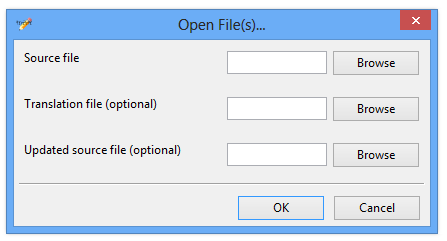
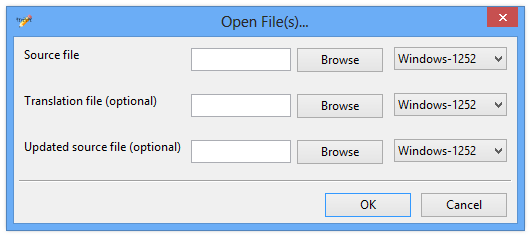
Image, readme, version number updates.

Changed region(s): [[0.0, 0.0, 0.9888, 0.9788]]

diff --git a/StrEdit Readme.html b/StrEdit Readme.html
@@ -50,6 +50,11 @@
     <li><b>Source and Translation files.</b> The original strings are obtained from the source file, and the translated strings are obtained from the translation file. The strings are matched up using their IDs, so this option should only be used when updating a translation file using the same version of the source file as was used to create it.
     <li><b>Source, Translation and Updated Source files.</b> The original strings and string IDs are obtained from the updated source file, and the translated strings are obtained from the translation file. The strings are first matched between the source and translation files using their IDs. The source and updated source strings are then matched by looking for exact matches or, if no exact match is found, by looking for the closest inexact match (known as a 'fuzzy' match). This option should be used when updating a translation file using a source file that has changed since the translation file was created.
 </ul>
+<p>The drop-down menus to the right of the file pickers are for selecting the fall-back encoding that should be used when reading the strings files. The strings files are assumed to contain strings encoded in UTF-8, but if a string is not valid when read as UTF-8, the fall-back encoding will be used. The encodings available for selection are:
+<ul>
+    <li><b>Windows-1252.</b> This is the default and should be used for all strings files except those that are for Cyrillic alphabet languages, such as Russian.
+    <li><b>Windows-1251.</b> This should be used for strings files that are for Cyrillic alphabet languages, such as Russian.
+</ul>
 <p>The following example should hopefully clarify any confusion arising from the above:
 <blockquote>
 <p>Alice releases v1.0 of AliceMod, which consists of AliceMod.esp and AliceMod_English.STRINGS.
@@ -82,7 +87,19 @@
 <p>StrEdit is copyright &copy 2012 WrinklyNinja, and is licensed under the <a href="http://www.gnu.org/licenses/gpl.html">GNU General Public License v3.0</a>, the full text of which is found in the included <q>LICENSES</q> file.
 
 <h2 id="history">Version History</h2>
-<h3>v0.1.0 - <i>November 2012</i></h3>
+<h3>v0.2.0 - <i>29 November 2012</i></h3>
+<ul>
+    <li>The number of filtered strings is now given in the status bar when a filter is applied.
+    <li>Added error messages for when an invalid combination of files is opened.
+    <li>libstrings updated to v1.1:
+    <ul>
+        <li>Strings file encodings are now handled correctly.
+        <li>Strings file extension checks are now case-insensitive, fixing an issue where files extracted from
+        BSAs could not be opened.
+    </ul>
+    <li>Added fall-back encoding selection to the Open File(s) dialog.
+</ul>
+<h3>v0.1.0 - <i>27 November 2012</i></h3>
 <ul>
     <li>Initial release.
 </ul>

diff --git a/src/backend.h b/src/backend.h
@@ -44,7 +44,7 @@ namespace stredit {
 
     //Some global constants.
     const std::string readme_path = "Docs/StrEdit Readme.html";
-    const std::string version_string = "0.1.0";
+    const std::string version_string = "0.2.0";
     const std::string prog_filename = "StrEdit.exe";
 
     //String file reading/writing. These could be replaced by a more optimised
